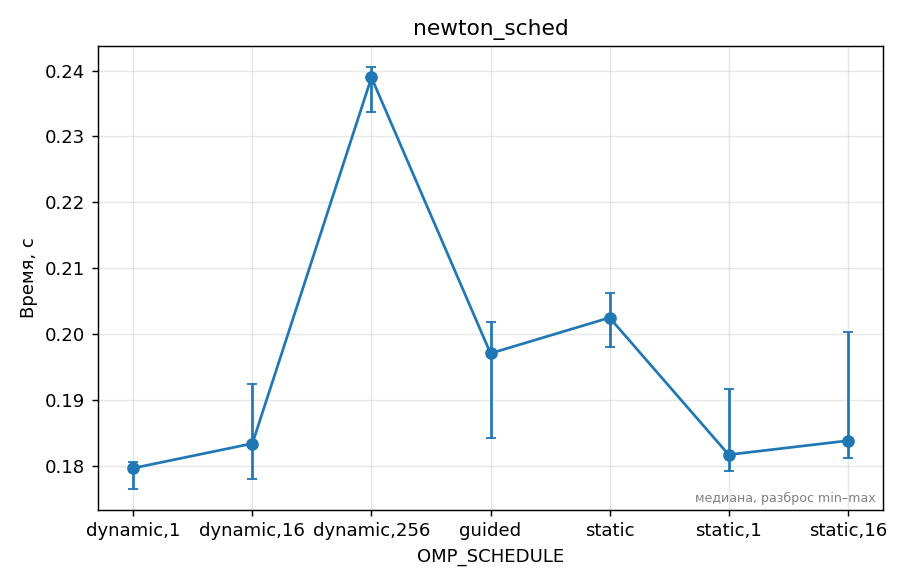
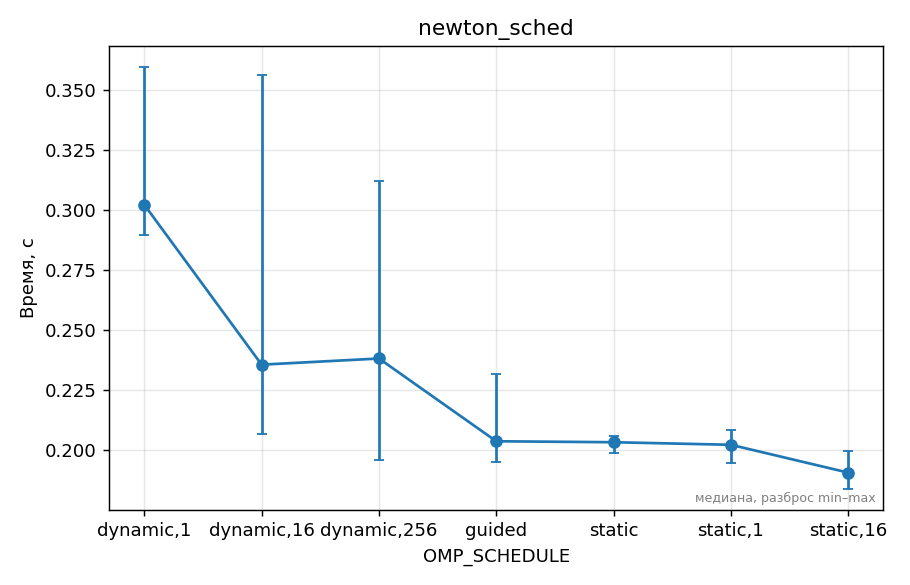
corrected

diff --git a/hw1/REPORT.md b/hw1/REPORT.md
@@ -4,6 +4,8 @@
 ## 1. Прогноз
 Думаю, что в данном случае лучше использовать параллелизацию по строкам. collapses(2), наверное, давал бы преимущество во времени, если бы число итераций первого цикла было $\leq$ числа логических процессоров (ядер в моем случае), без collapse(2) в таком случае нагрузка была бы распределена между ядрами неравномерно. 
 
+*** Примечание: в newton.c находится первоначальная версия программы, которую я реализовал, чтобы понять как работает collapse(2). Версия новее - newton_2.c
+
 Какое расписание окажется лучшим для задачи 1 на максимальном числе потоков и во сколько раз static будет медленнее его;
 - Ожидаю, что на 16 потоках при размере сетки 2000 на 2000 выиграет dynamic,16: 2000/16 = 125 соседних строк передается. static распределяет полосы строк заранее и при поступлении потоку дорогой полосы строк остальные потоки могут закончить раньше и ждать. Если обработка дорогой полосы занимет, например на четверть больше времени, чем обычная то всё выполнение может увеличится в 1,25 раза и static будет медленнее dynamic 4 в 1,25.
 
@@ -22,17 +24,52 @@
 
 
 ## 2. Стенд
+[Стенд](../SYSTEM.md)
 
-<!-- Ссылка на ../SYSTEM.md и то, что важно именно для этого ДЗ: число физических ядер,
-     P/E-ядра, объём L3, питание от сети, режим производительности, версия компилятора и флаги. -->
+Mac с процессором Apple M3, 8 физических ядер (4 производительных и 4 энергоэффективных). В этом дз важно иметь установленный archer (на мак по умолчанию нет archer в libomp) для работы tsan. Кэша L3 у процессора нет, используется общий системный кэш. В опытах с масштабированием использовались 1, 2, 4 и 8 потоков
 
 ## 3. Методика
+
+D vtnjразмер сетки 2000 на 2000
+make, make test, make tsan (гонки), make bench  THREADS=1,2,4,6,8,12,16, make plots, make tables
+
+
+### newton_sched
+
 
 <!-- Какие программы и с какими параметрами запускались, сколько повторов, как получено
      итоговое число (медиана), переменные OMP_* (OMP_PROC_BIND, OMP_PLACES, OMP_SCHEDULE…),
      точные команды bench.py/plot.py (или «make bench plots»). Как проверялась корректность. -->
 
 ## 4. Результаты
+### newton_sched
+<!-- медиана времени, с -->
+| — | OMP_SCHEDULE=dynamic,1 | OMP_SCHEDULE=dynamic,16 | OMP_SCHEDULE=dynamic,256 | OMP_SCHEDULE=guided | OMP_SCHEDULE=static | OMP_SCHEDULE=static,1 | OMP_SCHEDULE=static,16 |
+|---|---|---|---|---|---|---|---|
+| — | 0.3022 | 0.2356 | 0.2382 | 0.2038 | 0.2034 | 0.2023 | 0.1907 |
+### newton_chunk
+<!-- медиана времени, с -->
+| — | OMP_SCHEDULE=dynamic,1 | OMP_SCHEDULE=dynamic,1024 | OMP_SCHEDULE=dynamic,16 | OMP_SCHEDULE=dynamic,256 | OMP_SCHEDULE=dynamic,4 | OMP_SCHEDULE=dynamic,64 |
+|---|---|---|---|---|---|---|
+| — | 0.3153 | 0.1912 | 0.19 | 0.1952 | 0.2084 | 0.1897 |
+### newton_scaling
+<!-- ускорение -->
+| OMP_SCHEDULE | threads=1 | threads=2 | threads=4 | threads=6 | threads=8 | threads=12 | threads=16 |
+|---|---|---|---|---|---|---|---|
+| dynamic,16 | 1.00 | 1.84 | 3.76 | 4.71 | 5.62 | 4.71 | 5.86 |
+| static | 1.00 | 1.76 | 2.74 | 3.69 | 4.25 | 4.55 | 5.30 |
+### particles
+<!-- медиана времени, с -->
+| mode / OMP_SCHEDULE | threads=1 | threads=2 | threads=4 | threads=6 | threads=8 | threads=12 | threads=16 |
+|---|---|---|---|---|---|---|---|
+| full / dynamic,16 | 0.5622 | 0.3048 | 0.1876 | 0.1763 | 0.1644 | 0.1694 | 0.1459 |
+| full / guided | 0.5622 | 0.3029 | 0.2226 | 0.1692 | 0.1516 | 0.1491 | 0.1508 |
+| full / static | 0.5606 | 0.298 | 0.195 | 0.1633 | 0.1526 | 0.1477 | 0.1479 |
+| tri / dynamic,16 | 0.6355 | 0.349 | 0.1936 | 0.1609 | 0.1523 | 0.1499 | 0.1471 |
+| tri / guided | 0.6484 | 0.3438 | 0.189 | 0.1783 | 0.1567 | 0.1509 | 0.1505 |
+| tri / static | 0.6329 | 0.4824 | 0.3044 | 0.2384 | 0.2293 | 0.1783 | 0.1653 |
+
+
 
 <!-- Таблицы (python3 ../tools/plot.py results/….csv --table) и графики из plots/.
      Каждый график — с подписью: что на нём и какой вывод из него следует.
